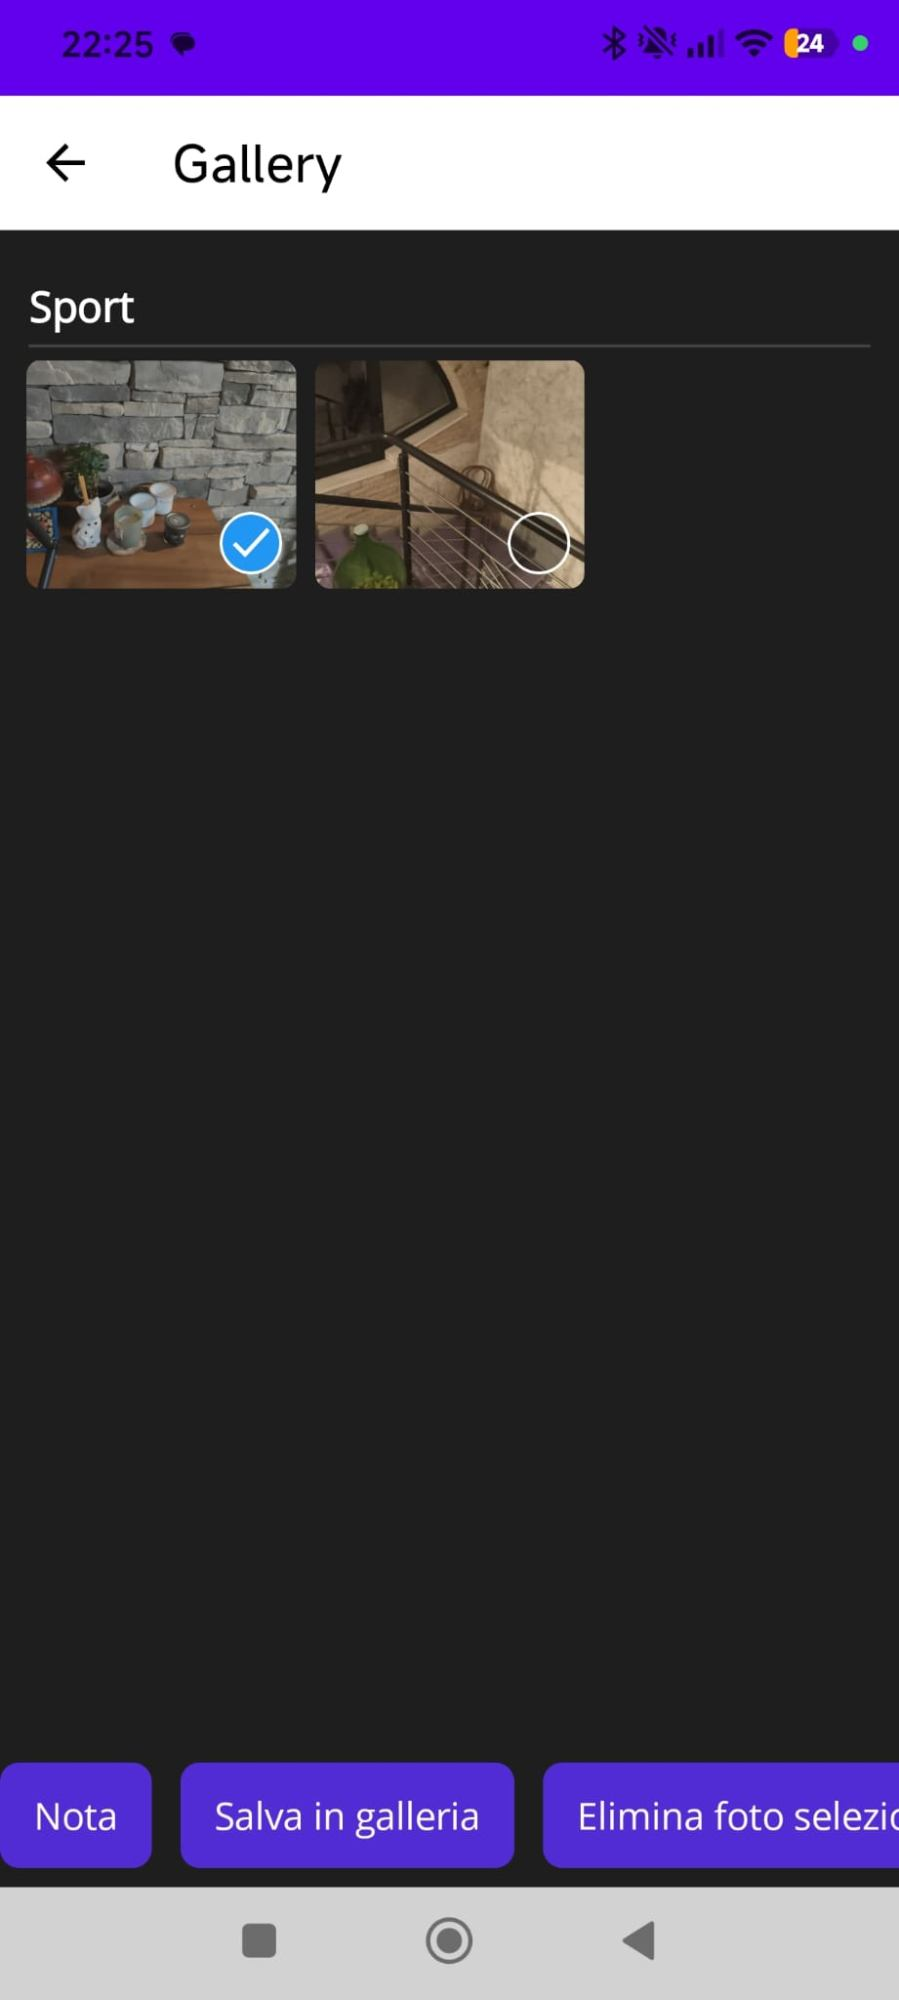
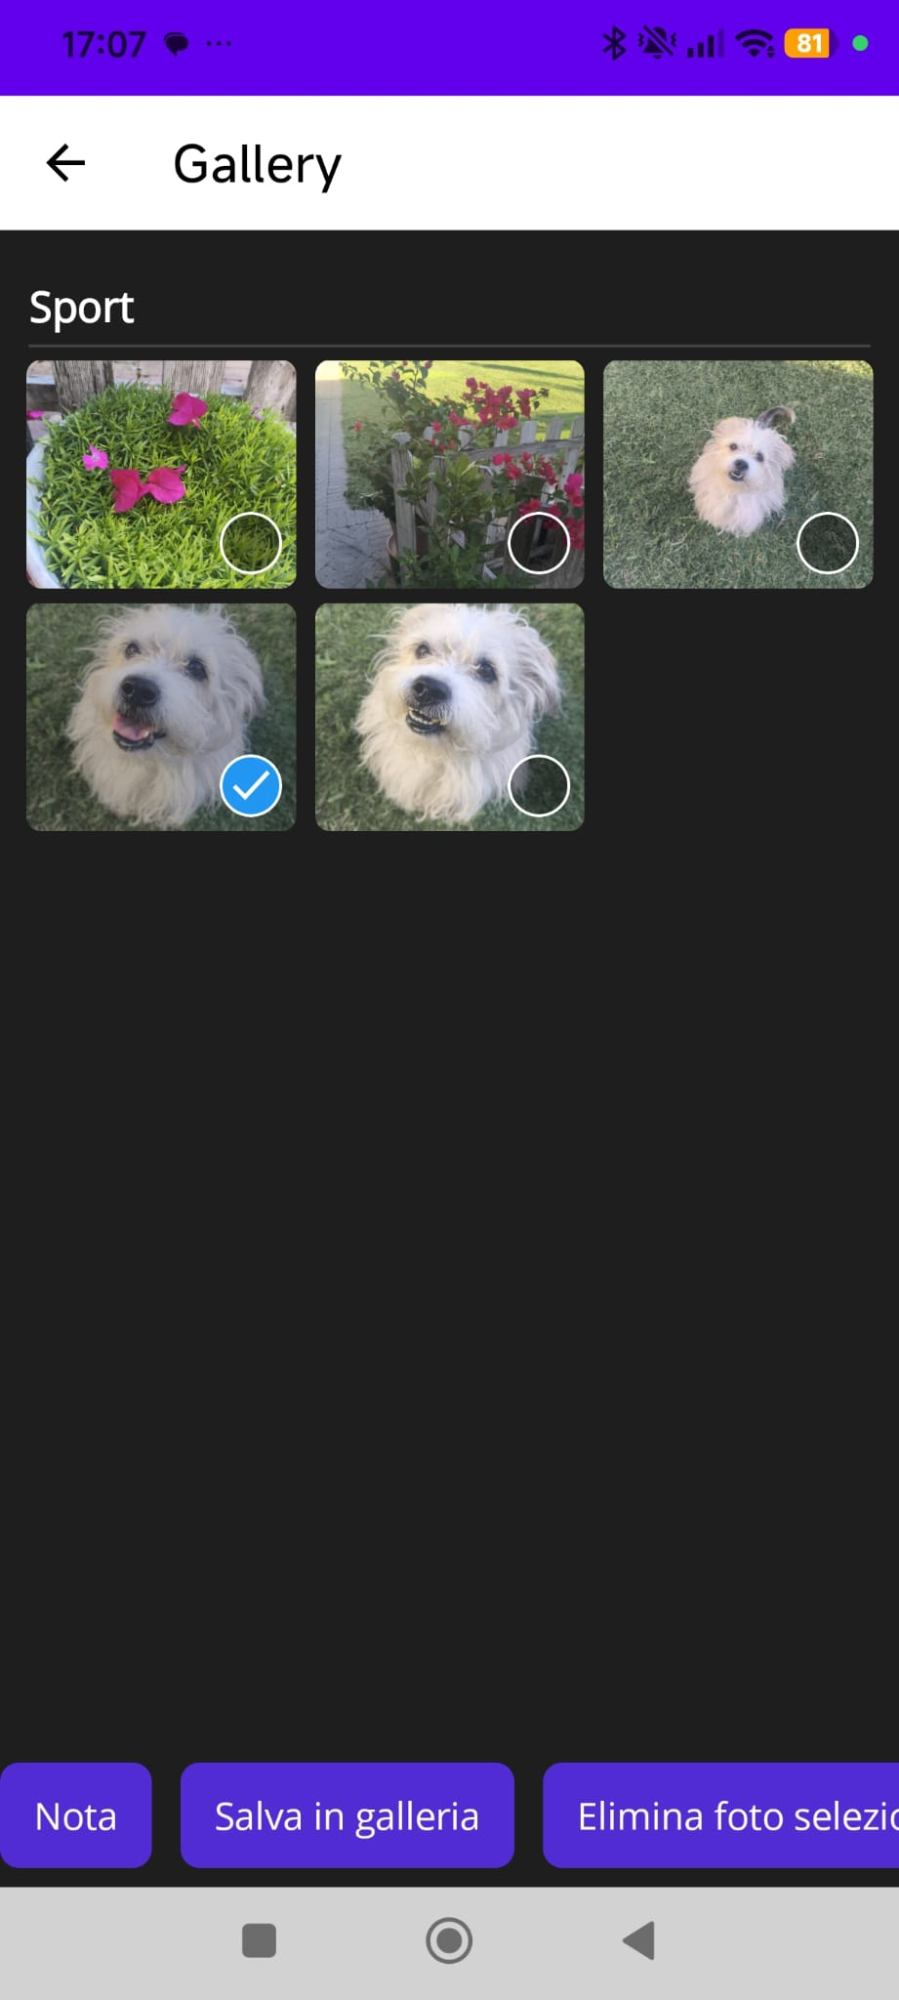
img: nuovo hero Android (android-main), vecchio hero in card scatto, galleria aggiornata

Changed region(s): [[0.0311, 0.155, 0.9967, 0.434], [0.0623, 0.0, 0.218, 0.031], [0.8721, 0.0, 0.9344, 0.031]]

diff --git a/android.html b/android.html
@@ -55,7 +55,7 @@
   <div class="container">
     <div class="section-head reveal"><div class="eyebrow">Schermate</div><h2>L'app in immagini.</h2><p>Apri uno screenshot per vederlo ingrandito.</p></div>
     <div class="gallery">
-      <figure class="shot phone reveal"><a href="assets/android-main.png" target="_blank" rel="noopener" aria-label="Apri lo screenshot della schermata di scatto"><img src="assets/android-main.png" alt="Schermata di scatto: tag attivo in alto a destra, contatore foto in coda, pulsante di scatto centrale"></a><figcaption>Scatto con tag, flash e contatore coda sempre in vista</figcaption></figure>
+      <figure class="shot phone reveal"><a href="assets/android-scatto.png" target="_blank" rel="noopener" aria-label="Apri lo screenshot della schermata di scatto"><img src="assets/android-scatto.png" alt="Schermata di scatto: tag attivo in alto a destra, contatore foto in coda, pulsante di scatto centrale"></a><figcaption>Scatto con tag, flash e contatore coda sempre in vista</figcaption></figure>
       <figure class="shot phone reveal"><a href="assets/android-tag.png" target="_blank" rel="noopener" aria-label="Apri lo screenshot della scelta del tag"><img src="assets/android-tag.png" alt="Overlay 'Scegli il tag' con l'elenco dei tag: Casa, Lavoro, Sport, Vacanze"></a><figcaption>Scegli il tag di destinazione con un tocco: se il tag non ha un'icona, trovi il suo nome</figcaption></figure>
       <figure class="shot phone reveal"><a href="assets/android-galleria.png" target="_blank" rel="noopener" aria-label="Apri lo screenshot della galleria dell'app"><img src="assets/android-galleria.png" alt="Galleria dell'app divisa per tag, con selezione multipla e azioni su nota, salvataggio ed eliminazione"></a><figcaption>Galleria divisa per tag, con selezione multipla e note</figcaption></figure>
       <figure class="shot phone reveal"><a href="assets/android-galleria-telefono.png" target="_blank" rel="noopener" aria-label="Apri lo screenshot della cartella Snapost nella galleria del telefono"><img src="assets/android-galleria-telefono.png" alt="La cartella Snapost nella galleria di sistema del telefono, con le foto copiate"></a><figcaption>Le copie salvate compaiono nella galleria del telefono</figcaption></figure>
